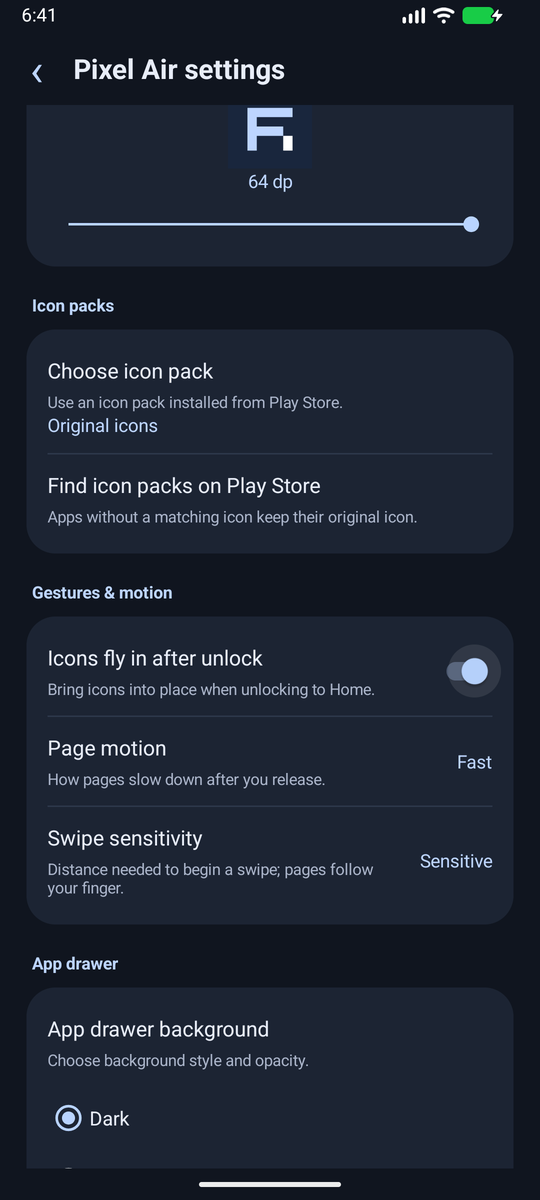
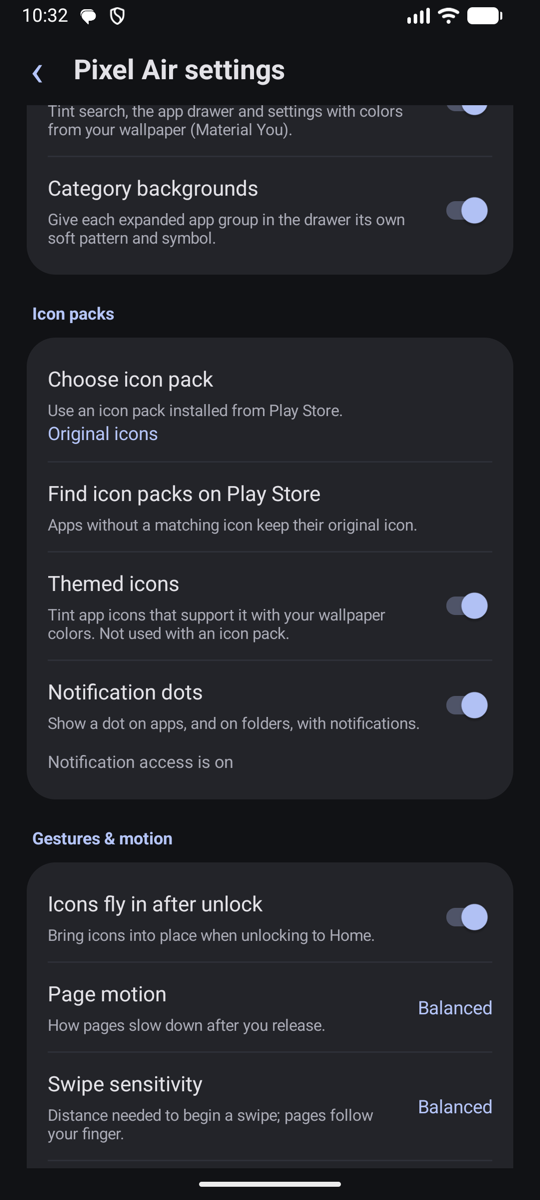
Refresh README screenshots and unlock GIF for 0.23
- Recapture Home, drawer, settings, collapsed and horizontal drawer from
  0.23 on the Android 17 emulator.
- Add folder grid, wider search and themed icons screenshots.
- Re-record the unlock GIF with the current spring ripple entrance.
- Show six screenshots in two rows in both READMEs, move the drawer
  images out from under License, and update alt text and asset notes.

diff --git a/README.vi.md b/README.vi.md
@@ -17,15 +17,21 @@
 ## Một vòng giao diện
 
 <table>
-  <tr><th>Màn hình chính</th><th>Danh sách ứng dụng</th><th>Tùy chỉnh theo ý bạn</th></tr>
+  <tr><th>Màn hình chính</th><th>Danh sách ứng dụng</th><th>Thư mục</th></tr>
   <tr>
-    <td align="center"><img src="docs/assets/home.png" width="220" alt="Pixel Air Home screen with clock, app grid, dock and search" /></td>
-    <td align="center"><img src="docs/assets/drawer.png" width="220" alt="App drawer with frequent apps and app categories" /></td>
-    <td align="center"><img src="docs/assets/settings.png" width="220" alt="Launcher settings for icon packs, icon size and motion" /></td>
+    <td align="center"><img src="docs/assets/home.png" width="220" alt="Pixel Air Home screen with clock, app grid, two folders, dock with a notification dot and search bar" /></td>
+    <td align="center"><img src="docs/assets/drawer.png" width="220" alt="App drawer with Frequent apps and app groups, each on its own patterned background" /></td>
+    <td align="center"><img src="docs/assets/folder.png" width="220" alt="Google folder open as an icon grid panel above the Home screen" /></td>
+  </tr>
+  <tr><th>Tìm kiếm</th><th>Icon theo chủ đề</th><th>Tùy chỉnh theo ý bạn</th></tr>
+  <tr>
+    <td align="center"><img src="docs/assets/search.png" width="220" alt="Drawer search for “ca” showing apps, an app shortcut, system settings pages and a web search" /></td>
+    <td align="center"><img src="docs/assets/themed-icons.png" width="220" alt="Home screen with themed monochrome icons tinted from the wallpaper" /></td>
+    <td align="center"><img src="docs/assets/settings.png" width="220" alt="Pixel Air settings with icon packs, themed icons, notification dots and motion options" /></td>
   </tr>
 </table>
 
-Ảnh giao diện thật từ các bản thử nghiệm trên máy ảo. Chi tiết thiết bị đã thử nằm trong ghi chú kiểm tra.
+Ảnh giao diện thật chụp từ bản 0.23 trên máy giả lập Android 17. Chi tiết thiết bị đã thử nằm trong ghi chú kiểm tra.
 
 ## Mở khóa, bung icon liền mạch
 
@@ -109,13 +115,13 @@ Khi báo lỗi, vui lòng ghi model máy, phiên bản Android/ROM, phiên bản
 
 Các nhóm mặc định mở sẵn, có thể chạm tiêu đề để thu gọn hoặc mở rộng, hiện đầy đủ ứng dụng trong một danh sách cuộn. Launcher ghi nhớ trạng thái từng nhóm. Chip tự mở nhóm trước khi cuộn đến; tìm kiếm vẫn lấy app trong các nhóm đã thu gọn. Mỗi nhóm có biểu tượng, màu nhấn và số ứng dụng riêng; hai hàng Hay dùng không trùng app với các nhóm bên dưới.
 
-<p align="center"><img src="docs/assets/drawer-collapsed.png" width="220" alt="Media category collapsed; other app groups remain visible" /></p>
+<p align="center"><img src="docs/assets/drawer-collapsed.png" width="220" alt="Tools and Media groups collapsed; other app groups stay open" /></p>
 
 ### Cuộn ngang tùy chọn
 
 Vào **Cài đặt Pixel Air → Danh sách ứng dụng → Hướng cuộn → Ngang**. Vuốt trái/phải đổi trang theo nhóm; nhóm nhiều app tự chia thêm trang. Chip nhảy đến trang đầu của nhóm, tìm kiếm lấy app ở mọi trang. Chế độ ngang hiển thị đủ app và không dùng thu/mở nhóm; trạng thái thu gọn vẫn được giữ cho chế độ dọc. Dọc vẫn là mặc định.
 
-<p align="center"><img src="docs/assets/drawer-horizontal.png" width="220" alt="App drawer ngang, trang Media và chỉ báo trang" /></p>
+<p align="center"><img src="docs/assets/drawer-horizontal.png" width="220" alt="App drawer ngang, trang Hay dùng và chỉ báo trang" /></p>
 
 ### Trở về Home và đa nhiệm
 

diff --git a/README.md b/README.md
@@ -17,15 +17,29 @@
 ## A look inside
 
 <table>
-  <tr><th>Home</th><th>App drawer</th><th>Make it yours</th></tr>
+  <tr><th>Home</th><th>App drawer</th><th>Folders</th></tr>
   <tr>
-    <td align="center"><img src="docs/assets/home.png" width="220" alt="Pixel Air Home screen with clock, app grid, dock and search" /></td>
-    <td align="center"><img src="docs/assets/drawer.png" width="220" alt="App drawer with frequent apps and app categories" /></td>
-    <td align="center"><img src="docs/assets/settings.png" width="220" alt="Launcher settings for icon packs, icon size and motion" /></td>
+    <td align="center"><img src="docs/assets/home.png" width="220" alt="Pixel Air Home screen with clock, app grid, two folders, dock with a notification dot and search bar" /></td>
+    <td align="center"><img src="docs/assets/drawer.png" width="220" alt="App drawer with Frequent apps and app groups, each on its own patterned background" /></td>
+    <td align="center"><img src="docs/assets/folder.png" width="220" alt="Google folder open as an icon grid panel above the Home screen" /></td>
+  </tr>
+  <tr><th>Search</th><th>Themed icons</th><th>Make it yours</th></tr>
+  <tr>
+    <td align="center"><img src="docs/assets/search.png" width="220" alt="Drawer search for “ca” showing apps, an app shortcut, system settings pages and a web search" /></td>
+    <td align="center"><img src="docs/assets/themed-icons.png" width="220" alt="Home screen with themed monochrome icons tinted from the wallpaper" /></td>
+    <td align="center"><img src="docs/assets/settings.png" width="220" alt="Pixel Air settings with icon packs, themed icons, notification dots and motion options" /></td>
   </tr>
 </table>
 
-Actual emulator captures from development builds. See the testing notes for device coverage.
+Actual emulator captures from version 0.23 (Android 17 emulator). See the testing notes for device coverage.
+
+<table>
+  <tr><th>Collapsible groups</th><th>Horizontal pages</th></tr>
+  <tr>
+    <td align="center"><img src="docs/assets/drawer-collapsed.png" width="220" alt="Tools and Media groups collapsed; other app groups stay open" /></td>
+    <td align="center"><img src="docs/assets/drawer-horizontal.png" width="220" alt="Optional horizontal drawer showing the Frequent page and page navigation" /></td>
+  </tr>
+</table>
 
 ## Unlock, in one motion
 
@@ -131,10 +145,6 @@ Run the build/lint checks and the model tests before submitting a change. Docume
 ## License
 
 Pixel Air source code is available under the [Apache License 2.0](LICENSE). See [NOTICE](NOTICE) for third-party notices. Product names and third-party app logos belong to their respective owners.
-
-<p align="center"><img src="docs/assets/drawer-collapsed.png" width="220" alt="Media category collapsed; other app groups remain visible" /></p>
-
-<p align="center"><img src="docs/assets/drawer-horizontal.png" width="220" alt="Optional horizontal drawer with a Media page and page navigation" /></p>
 
 Version 0.17 removes the experimental Home-return feedback because of latency reported on REDMAGIC. Task isolation and Recents exclusion were adjusted; the reported Home-to-Recents issue still needs validation on the physical device.
 

diff --git a/docs/assets/README.md b/docs/assets/README.md
@@ -5,15 +5,16 @@ These files show the actual launcher, not design mockups.
 | Asset | Source |
 | --- | --- |
 | `banner.svg` | Original vector banner using the project's own icon and colors. |
-| `home.png` | Version 0.18 emulator Home capture with a continuous full-window background behind both system bars. |
-| `drawer.png` | English app drawer capture from version 0.15, showing the redesigned expand indicators. |
-| `settings.png` | English settings capture from version 0.10; the shown controls remain available in 0.11. |
-| `unlock.gif` | Shortened loop from the version 0.11 emulator recording, resized and palette-optimized for the README. Playback speed is unchanged; the first and final frames are held briefly for the loop. |
+| `home.png` | Version 0.23 Home with two folders and a notification dot on Messages. |
+| `drawer.png` | Version 0.23 app drawer with Frequent apps and category backgrounds. |
+| `folder.png` | Version 0.23 Google folder opened as an icon grid panel. |
+| `search.png` | Version 0.23 drawer search for "ca": apps, an app shortcut, settings pages and the web row. |
+| `themed-icons.png` | Version 0.23 Home with themed icons on. Camera and Files have no monochrome layer and keep their own icons. |
+| `settings.png` | Version 0.23 settings: icon packs, themed icons, notification dots and motion. |
+| `drawer-collapsed.png` | Version 0.23 drawer with the Tools and Media groups collapsed. |
+| `drawer-horizontal.png` | Version 0.23 optional horizontal drawer, Frequent page. |
+| `unlock.gif` | Version 0.23 swipe-up unlock to Home, cut from an emulator screen recording. Played at normal speed, 25 fps, with the final frame held for the loop. |
 
-The full recording is attached to the v0.11 GitHub release. Static screenshots are resized proportionally, without changing UI content. The GIF has a still-image alternative for readers who request reduced motion in their browser.
+All captures come from the Android 17 emulator (Medium Phone, 1080×2400). Screenshots are scaled to 540×1200 without changing UI content. The GIF has a still-image alternative for readers who request reduced motion in their browser.
 
 Third-party app icons and the emulator wallpaper appear as part of the captured Android UI; their respective owners retain rights to that artwork. They are not supplied as standalone launcher assets. See the repository's NOTICE file.
-
-`drawer-collapsed.png`: version 0.15 emulator capture with the Media group collapsed by tapping its header.
-
-`drawer-horizontal.png`: version 0.14 emulator capture of the optional horizontal drawer, Media page.
